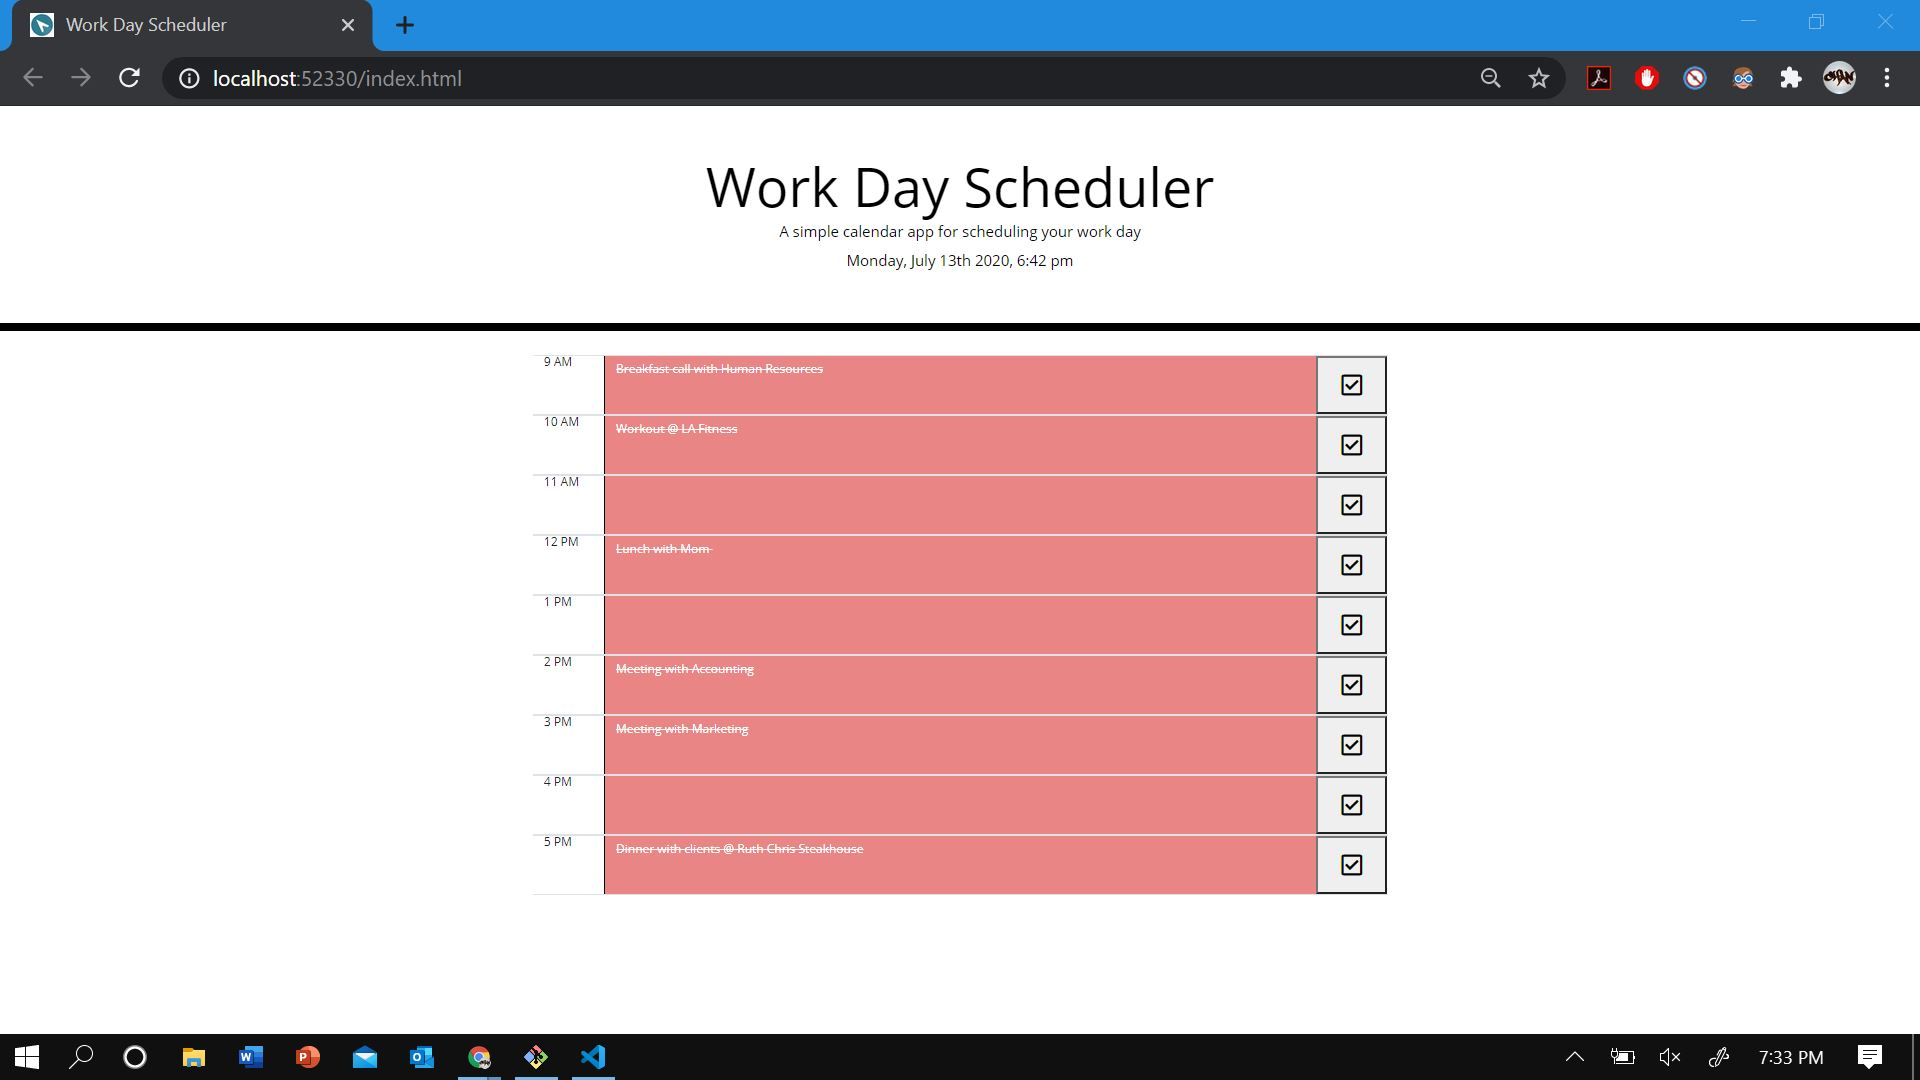
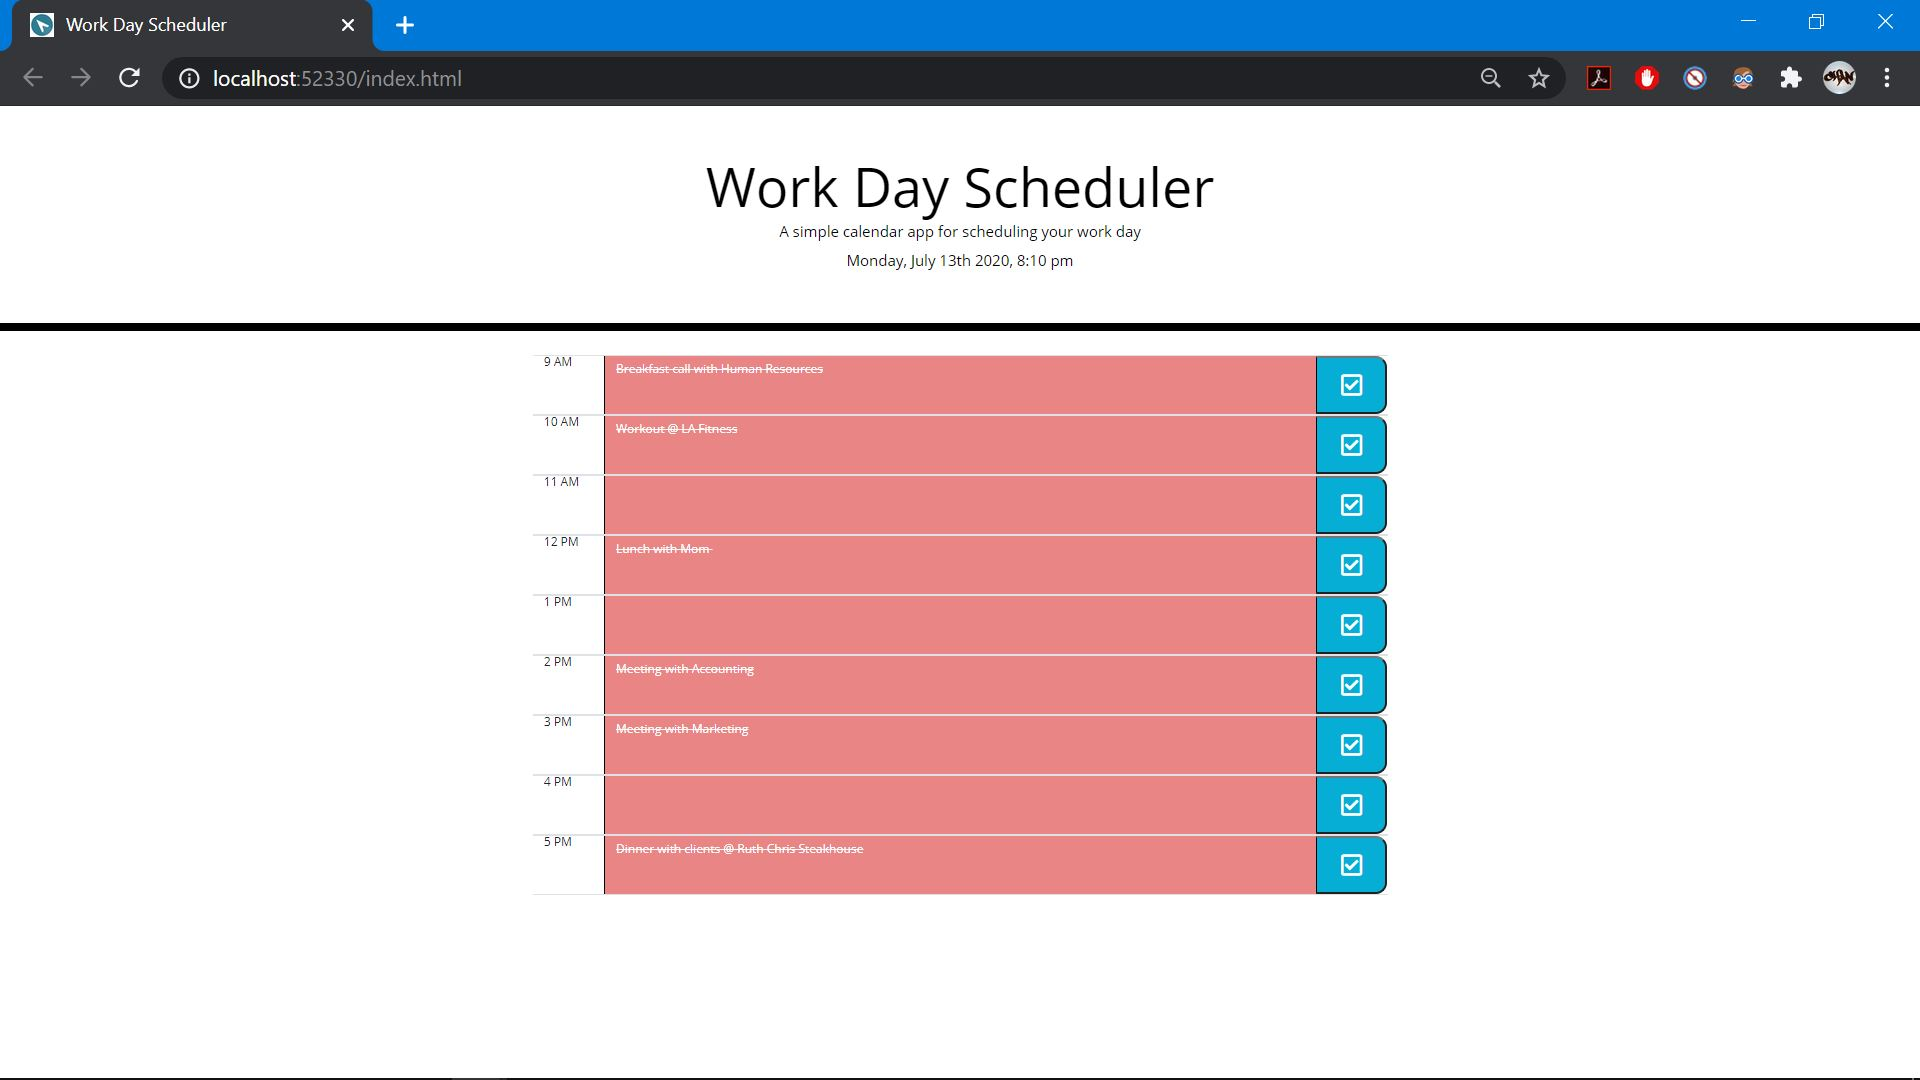
Fixed the check mark box id's to make them unique and animated

diff --git a/style.css b/style.css
@@ -2,6 +2,7 @@ body {
     font-family: 'Open Sans', sans-serif;
     font-size: 16px;
     line-height: 1;
+    padding-bottom: 5%;
   }
   
   textarea{
@@ -58,7 +59,7 @@ body {
     color: white;
   }
   
-  .saveBtn {
+  #save {
     border-left: 1px solid black;
     border-top-right-radius: 15px;
     border-bottom-right-radius: 15px;
@@ -66,7 +67,7 @@ body {
     color: white;
   }
   
-  .saveBtn i:hover {
+  #save i:hover {
     font-size: 20px;
     transition: all .3s ease-in-out;
   }

diff --git a/index.html b/index.html
@@ -43,7 +43,7 @@
     </header>
     <div class="container">
       <!-- Timeblocks go here -->
-      <!-- We need to cover all hours of the workday, this encompasses 8am-5pm -->
+      <!-- We need to cover all hours of the work day, this encompasses 9am-5pm -->
 
 <div id="calendar-row1" class="row justify-content-md-center border-top border-bottom calendar-row">
     <div id="time1" class="col-md-1">9 AM</div>

diff --git a/README.md b/README.md
@@ -1,6 +1,6 @@
 # Work-Day-Scheduler
 
-This project showcases an interactive web-app that aims to be user friendly and responsive. By including moment.js at the top of the page the user can find an automatically up to date display of the current date and time. Below this header section the user will find nine time blocks meant to illustrate the typical work day. Within these nine blocks the user can plan out their day by inputting whatever information they like and then selecting the "Check" button to save that input. What makes this application the most interesting is the use of colors to impact the schedule. If the current time is before a time block, it will appear green. If the current time is during a time block, it will appear white. Lastly, if the current time is after a time block, it will appear red. Any text the user has written in a time block that is currently red will still be visible, but will be accented with a white line through it. To visit the deployed application please click here:
+This project showcases an interactive web-app that aims to be user friendly and responsive. By including moment.js at the top of the page the user can find an automatically up to date display of the current date and time. Below this header section the user will find nine time blocks meant to illustrate the typical work day. Within these nine blocks the user can plan out their day by inputting whatever information they like and then selecting the "Check" button to save that input. What makes this application the most interesting is the use of colors to impact the schedule. If the current time is before a time block, it will appear green. If the current time is during a time block, it will appear white. Lastly, if the current time is after a time block, it will appear red. Any text the user has written in a time block that is currently red will still be visible, but will be accented with a white line through it. To visit the deployed application please click here: https://chandler8.github.io/Work-Day-Scheduler/
 
 ## User Story
 
